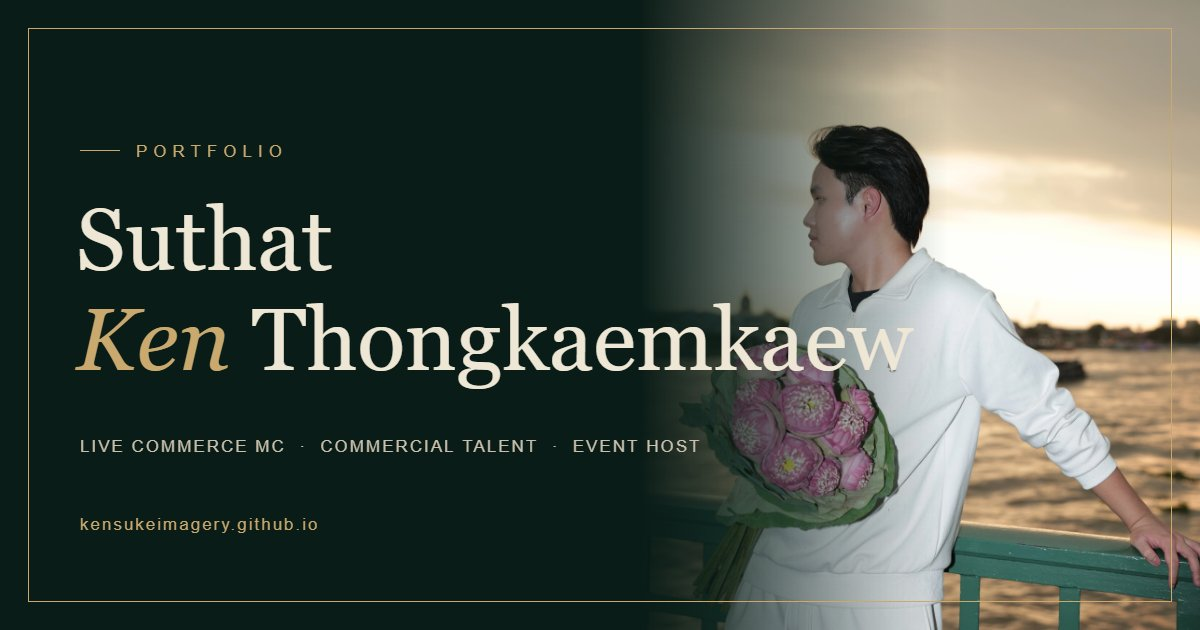
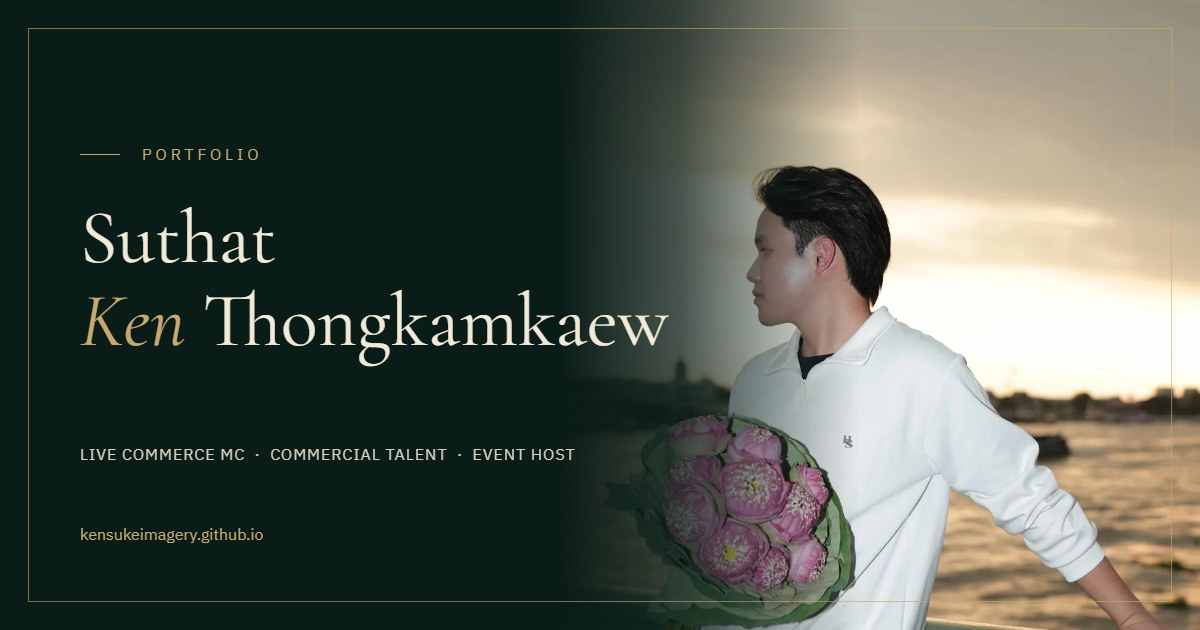
Correct surname spelling to Thongkamkaew (per ID card); regenerate OG image
Claude-Session: https://claude.ai/code/session_01Vn7vchGtD2sRWvueDCQHej

diff --git a/src/data/profile.js b/src/data/profile.js
@@ -6,7 +6,7 @@
 
 export const person = {
   nameTh: 'สุทัศน์ ทองแกมแก้ว',
-  nameEn: 'Suthat Thongkaemkaew',
+  nameEn: 'Suthat Thongkamkaew',
   nick: { th: 'เคน', en: 'Ken' },
   birthDate: '2002-02-01', // ใช้คำนวณอายุอัตโนมัติ (ไม่แสดงวันเกิดเต็มบนเว็บ)
   roles: {
